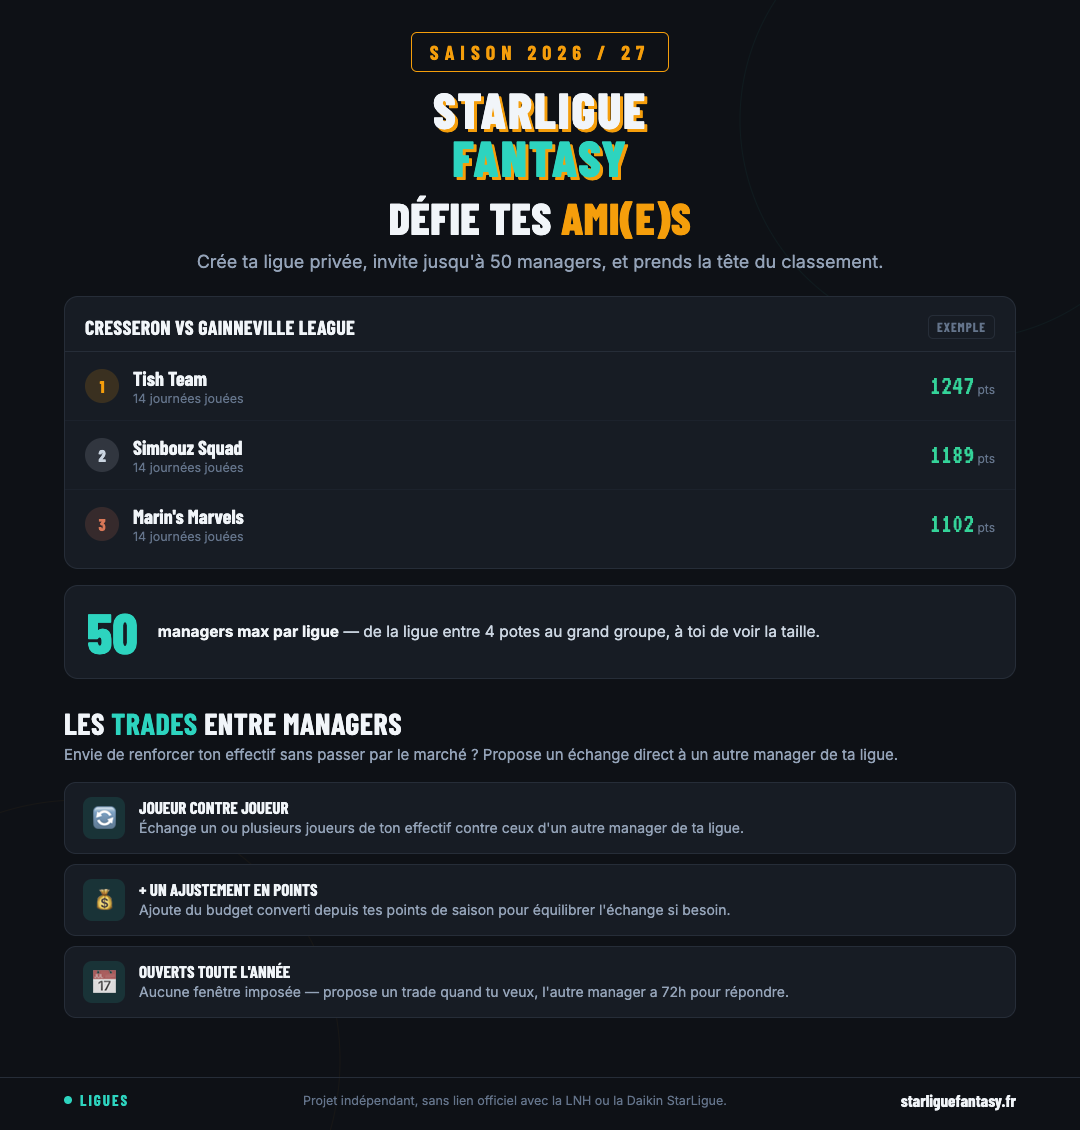
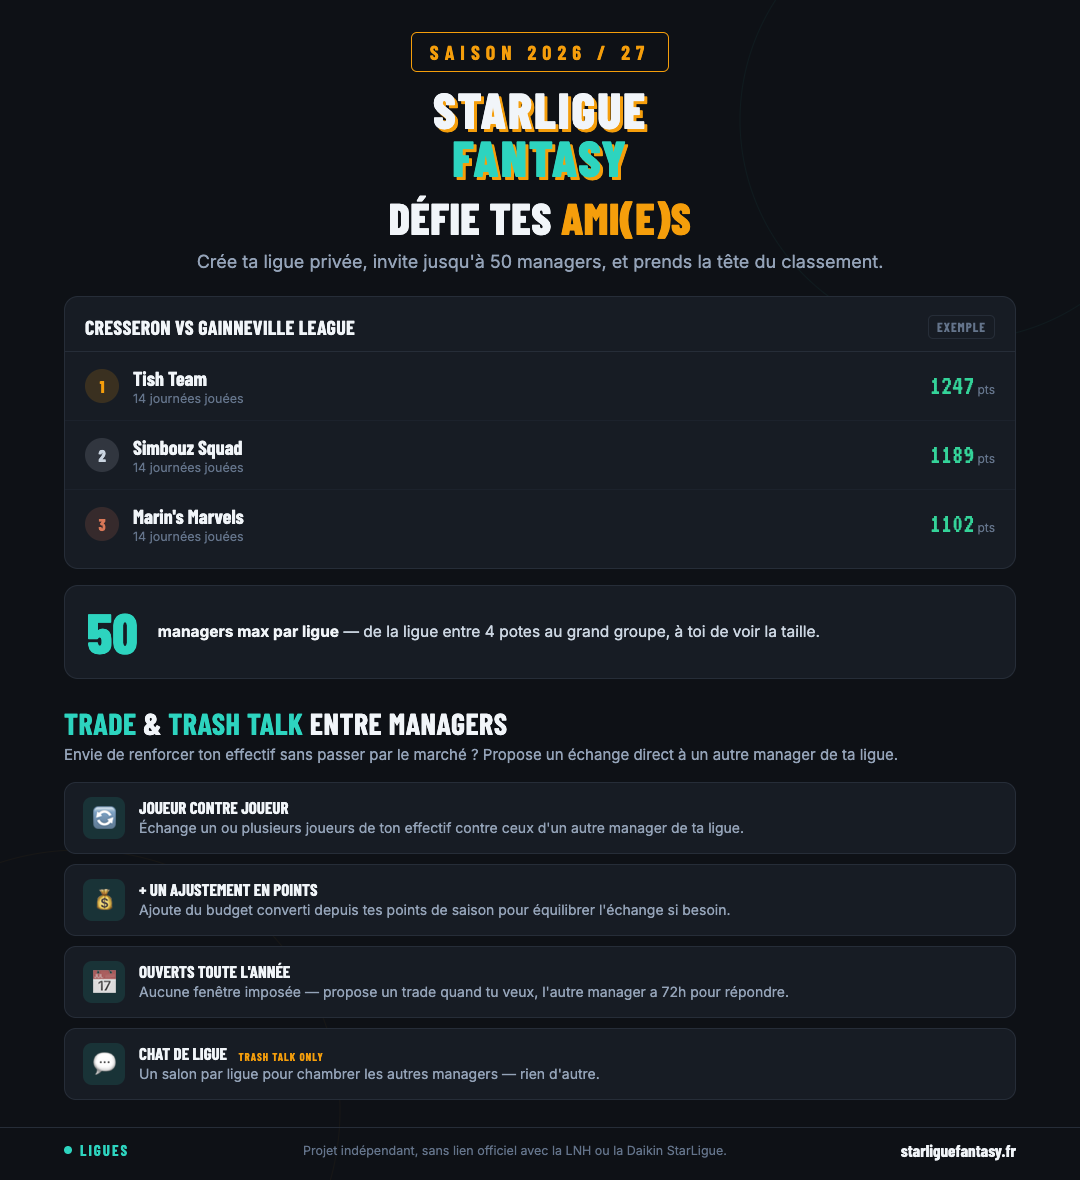
Ajouter le chat de ligue (trash talk) + visuel Instagram "Défie tes ami(e)s"
- Modèle LeagueChatMessage (un salon par League, partagé live/simulation),
  GET/POST /api/leagues/[id]/chat, contenu validé par une fonction pure
  testée (src/lib/leagues/chat.ts).
- Composant LeagueChat (polling 5s) intégré à la page de ligue.
- Vérifié en navigateur réel (inscription -> création de ligue -> envoi ->
  persistance après reload) ; un bug de doublon (course entre l'envoi
  optimiste et le polling) trouvé et corrigé en testant (dédup par id).
- Visuel "Défie tes ami(e)s" : classement d'exemple, rappel des 50
  managers max/ligue, et présentation Trade & Trash Talk entre managers.

diff --git a/src/components/leagues/LeagueChat.tsx b/src/components/leagues/LeagueChat.tsx
@@ -1,0 +1,135 @@
+"use client";
+
+import { useCallback, useEffect, useRef, useState } from "react";
+
+interface ChatMessage {
+  id: string;
+  content: string;
+  createdAt: string;
+  userId: string;
+  userName: string;
+}
+
+const POLL_INTERVAL_MS = 5000;
+
+function formatTime(iso: string): string {
+  return new Date(iso).toLocaleTimeString("fr-FR", { hour: "2-digit", minute: "2-digit" });
+}
+
+// Fusionne en dédupliquant par id — un fetchNew() lancé avant l'envoi optimiste
+// d'un message peut résoudre après coup et renvoyer ce même message (course entre
+// le polling et handleSend), voir memory "double POST React Strict Mode".
+function mergeMessages(prev: ChatMessage[], incoming: ChatMessage[]): ChatMessage[] {
+  const seen = new Set(prev.map((m) => m.id));
+  return [...prev, ...incoming.filter((m) => !seen.has(m.id))];
+}
+
+export function LeagueChat({ leagueId, currentUserId }: { leagueId: string; currentUserId: string }) {
+  const [messages, setMessages] = useState<ChatMessage[]>([]);
+  const [draft, setDraft] = useState("");
+  const [sending, setSending] = useState(false);
+  const [error, setError] = useState<string | null>(null);
+  const listRef = useRef<HTMLDivElement>(null);
+  const latestCreatedAt = useRef<string | null>(null);
+
+  const fetchNew = useCallback(async () => {
+    const url = latestCreatedAt.current
+      ? `/api/leagues/${leagueId}/chat?since=${encodeURIComponent(latestCreatedAt.current)}`
+      : `/api/leagues/${leagueId}/chat`;
+    const res = await fetch(url);
+    const json = (await res.json()) as { data?: { messages: ChatMessage[] } };
+    const incoming = json.data?.messages ?? [];
+    if (incoming.length === 0) return;
+    const last = incoming[incoming.length - 1];
+    if (!last) return;
+    setMessages((prev) => mergeMessages(prev, incoming));
+    latestCreatedAt.current = last.createdAt;
+  }, [leagueId]);
+
+  useEffect(() => {
+    fetchNew();
+    const interval = setInterval(fetchNew, POLL_INTERVAL_MS);
+    return () => clearInterval(interval);
+  }, [fetchNew]);
+
+  useEffect(() => {
+    listRef.current?.scrollTo({ top: listRef.current.scrollHeight });
+  }, [messages]);
+
+  async function handleSend(e: React.FormEvent) {
+    e.preventDefault();
+    const content = draft.trim();
+    if (!content || sending) return;
+    setSending(true);
+    setError(null);
+    const res = await fetch(`/api/leagues/${leagueId}/chat`, {
+      method: "POST",
+      headers: { "Content-Type": "application/json" },
+      body: JSON.stringify({ content }),
+    });
+    const json = (await res.json()) as { data?: { message: ChatMessage }; error?: { message: string } };
+    if (json.data) {
+      const sent = json.data.message;
+      setMessages((prev) => mergeMessages(prev, [sent]));
+      latestCreatedAt.current = sent.createdAt;
+      setDraft("");
+    } else {
+      setError(json.error?.message ?? "Erreur d'envoi");
+    }
+    setSending(false);
+  }
+
+  return (
+    <div className="pixel-corners border border-border bg-surface">
+      <div className="flex items-center justify-between border-b border-border px-4 py-2.5">
+        <p className="text-xs font-semibold uppercase tracking-widest text-text-muted">Chat de ligue</p>
+        <span className="text-[10px] uppercase tracking-widest text-amber-400">Trash talk only</span>
+      </div>
+
+      <div ref={listRef} className="flex max-h-72 flex-col gap-2 overflow-y-auto px-4 py-3">
+        {messages.length === 0 ? (
+          <p className="py-4 text-center text-sm text-text-muted">
+            Personne n'a encore lancé les hostilités. À toi l'honneur.
+          </p>
+        ) : (
+          messages.map((m) => {
+            const mine = m.userId === currentUserId;
+            return (
+              <div key={m.id} className={mine ? "self-end text-right" : "self-start"}>
+                <p className="text-[10px] text-text-muted">
+                  {mine ? "Toi" : m.userName} · {formatTime(m.createdAt)}
+                </p>
+                <p
+                  className={[
+                    "pixel-corners-sm mt-0.5 inline-block max-w-xs break-words px-3 py-1.5 text-sm",
+                    mine ? "bg-accent/15 text-text" : "border border-border bg-bg text-text",
+                  ].join(" ")}
+                >
+                  {m.content}
+                </p>
+              </div>
+            );
+          })
+        )}
+      </div>
+
+      <form onSubmit={handleSend} className="flex items-center gap-2 border-t border-border p-3">
+        <input
+          value={draft}
+          onChange={(e) => setDraft(e.target.value)}
+          maxLength={500}
+          placeholder="Envoie une pique à tes adversaires…"
+          className="flex-1 bg-transparent text-sm text-text placeholder:text-text-muted focus:outline-none"
+        />
+        <button
+          type="submit"
+          disabled={sending || draft.trim().length === 0}
+          className="pixel-corners-sm border border-accent/40 px-3 py-1.5 text-xs text-accent transition-colors hover:bg-accent/10 disabled:opacity-40"
+        >
+          Envoyer
+        </button>
+      </form>
+      {error && <p className="px-4 pb-2 text-xs text-points-neg">{error}</p>}
+    </div>
+  );
+}

diff --git a/src/app/api/leagues/[id]/chat/route.ts b/src/app/api/leagues/[id]/chat/route.ts
@@ -1,0 +1,101 @@
+export const dynamic = "force-dynamic";
+
+// GET  /api/leagues/:id/chat?since=ISO   → messages du salon (trash talk), triés
+//                                           du plus ancien au plus récent ; `since`
+//                                           permet un polling léger côté client
+// POST /api/leagues/:id/chat { content } → poste un message
+import { NextResponse } from "next/server";
+import { z } from "zod";
+import { auth } from "@/lib/auth";
+import { prisma } from "@/lib/db";
+import { isLeagueMember } from "@/lib/leagues/standings";
+import { validateChatMessageContent } from "@/lib/leagues/chat";
+
+const CHAT_PAGE_SIZE = 100;
+
+export async function GET(request: Request, { params }: { params: { id: string } }) {
+  const session = await auth();
+  if (!session?.user?.id) {
+    return NextResponse.json({ error: { code: "UNAUTHORIZED" } }, { status: 401 });
+  }
+  if (!(await isLeagueMember(params.id, session.user.id))) {
+    return NextResponse.json(
+      { error: { code: "FORBIDDEN", message: "Tu n'es pas membre de cette ligue" } },
+      { status: 403 }
+    );
+  }
+
+  const url = new URL(request.url);
+  const since = url.searchParams.get("since");
+  const sinceDate = since ? new Date(since) : null;
+
+  const messages = await prisma.leagueChatMessage.findMany({
+    where: {
+      leagueId: params.id,
+      ...(sinceDate && !isNaN(sinceDate.getTime()) ? { createdAt: { gt: sinceDate } } : {}),
+    },
+    orderBy: { createdAt: sinceDate ? "asc" : "desc" },
+    take: CHAT_PAGE_SIZE,
+    select: { id: true, content: true, createdAt: true, userId: true, user: { select: { name: true } } },
+  });
+
+  const ordered = sinceDate ? messages : messages.reverse();
+
+  return NextResponse.json({
+    data: {
+      messages: ordered.map((m) => ({
+        id: m.id,
+        content: m.content,
+        createdAt: m.createdAt,
+        userId: m.userId,
+        userName: m.user.name,
+      })),
+    },
+  });
+}
+
+const bodySchema = z.object({ content: z.string().min(1).max(2000) });
+
+export async function POST(request: Request, { params }: { params: { id: string } }) {
+  const session = await auth();
+  if (!session?.user?.id) {
+    return NextResponse.json({ error: { code: "UNAUTHORIZED" } }, { status: 401 });
+  }
+  if (!(await isLeagueMember(params.id, session.user.id))) {
+    return NextResponse.json(
+      { error: { code: "FORBIDDEN", message: "Tu n'es pas membre de cette ligue" } },
+      { status: 403 }
+    );
+  }
+
+  const parsed = bodySchema.safeParse(await request.json().catch(() => null));
+  if (!parsed.success) {
+    return NextResponse.json({ error: { code: "INVALID_INPUT", message: parsed.error.message } }, { status: 400 });
+  }
+
+  const validated = validateChatMessageContent(parsed.data.content);
+  if (!validated.valid) {
+    const message =
+      validated.error?.code === "EMPTY"
+        ? "Le message ne peut pas être vide"
+        : `Message trop long (max ${validated.error && "max" in validated.error ? validated.error.max : ""} caractères)`;
+    return NextResponse.json({ error: { code: "INVALID_INPUT", message } }, { status: 400 });
+  }
+
+  const message = await prisma.leagueChatMessage.create({
+    data: { leagueId: params.id, userId: session.user.id, content: validated.content },
+    select: { id: true, content: true, createdAt: true, userId: true, user: { select: { name: true } } },
+  });
+
+  return NextResponse.json({
+    data: {
+      message: {
+        id: message.id,
+        content: message.content,
+        createdAt: message.createdAt,
+        userId: message.userId,
+        userName: message.user.name,
+      },
+    },
+  });
+}

diff --git a/src/lib/leagues/chat.test.ts b/src/lib/leagues/chat.test.ts
@@ -1,0 +1,32 @@
+import { describe, it, expect } from "vitest";
+import { validateChatMessageContent, CHAT_MESSAGE_MAX_LENGTH } from "./chat";
+
+describe("validateChatMessageContent", () => {
+  it("accepte un message normal", () => {
+    const result = validateChatMessageContent("gg les nuls, on vous attend en playoffs");
+    expect(result.valid).toBe(true);
+    expect(result.error).toBeNull();
+  });
+
+  it("trim les espaces superflus", () => {
+    const result = validateChatMessageContent("   salut   ");
+    expect(result.content).toBe("salut");
+  });
+
+  it("rejette un message vide", () => {
+    const result = validateChatMessageContent("   ");
+    expect(result.valid).toBe(false);
+    expect(result.error).toEqual({ code: "EMPTY" });
+  });
+
+  it(`rejette un message de plus de ${CHAT_MESSAGE_MAX_LENGTH} caractères`, () => {
+    const result = validateChatMessageContent("a".repeat(CHAT_MESSAGE_MAX_LENGTH + 1));
+    expect(result.valid).toBe(false);
+    expect(result.error).toEqual({ code: "TOO_LONG", max: CHAT_MESSAGE_MAX_LENGTH });
+  });
+
+  it(`accepte pile ${CHAT_MESSAGE_MAX_LENGTH} caractères`, () => {
+    const result = validateChatMessageContent("a".repeat(CHAT_MESSAGE_MAX_LENGTH));
+    expect(result.valid).toBe(true);
+  });
+});

diff --git a/src/lib/leagues/chat.ts b/src/lib/leagues/chat.ts
@@ -1,0 +1,25 @@
+// Validation du contenu d'un message de chat de ligue — trash talk uniquement,
+// pas une messagerie générale (voir prisma/schema.prisma, LeagueChatMessage).
+// Fonction PURE : aucun effet de bord, aucun import Prisma.
+
+export const CHAT_MESSAGE_MAX_LENGTH = 500;
+
+export type ChatMessageValidationError = { code: "EMPTY" } | { code: "TOO_LONG"; max: number };
+
+export interface ChatMessageValidationResult {
+  valid: boolean;
+  error: ChatMessageValidationError | null;
+  content: string; // trim() appliqué
+}
+
+export function validateChatMessageContent(raw: string): ChatMessageValidationResult {
+  const content = raw.trim();
+
+  if (content.length === 0) {
+    return { valid: false, error: { code: "EMPTY" }, content };
+  }
+  if (content.length > CHAT_MESSAGE_MAX_LENGTH) {
+    return { valid: false, error: { code: "TOO_LONG", max: CHAT_MESSAGE_MAX_LENGTH }, content };
+  }
+  return { valid: true, error: null, content };
+}

diff --git a/src/app/(game)/leagues/[id]/page.tsx b/src/app/(game)/leagues/[id]/page.tsx
@@ -17,6 +17,7 @@ import {
   LeaveLeagueButton,
   DeleteLeagueButton,
 } from "@/components/leagues/LeagueDetailActions";
+import { LeagueChat } from "@/components/leagues/LeagueChat";
 import Link from "next/link";
 import { LinkButton } from "@/components/ui/Button";
 import type { SeasonMode } from "@/lib/team/active-team-context";
@@ -118,6 +119,9 @@ export default async function LeagueDetailPage({ params }: { params: { id: strin
         <p className="mb-2 text-xs font-semibold uppercase tracking-widest text-text-muted">Classement de la ligue</p>
         <LeaderboardList entries={league.standings} currentUserId={userId} pointsKey="totalPoints" />
       </div>
+
+      {/* Chat de ligue */}
+      <LeagueChat leagueId={league.id} currentUserId={userId} />
 
       {/* Classement général — seulement en live (pas de classement global simulation) */}
       {mode === "live" && (
